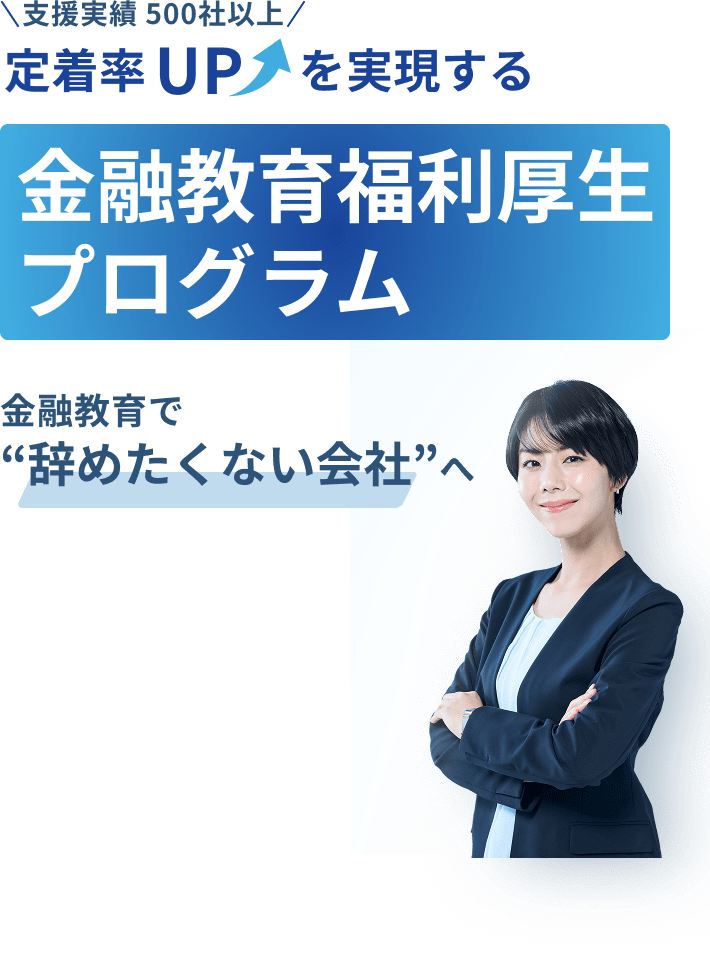
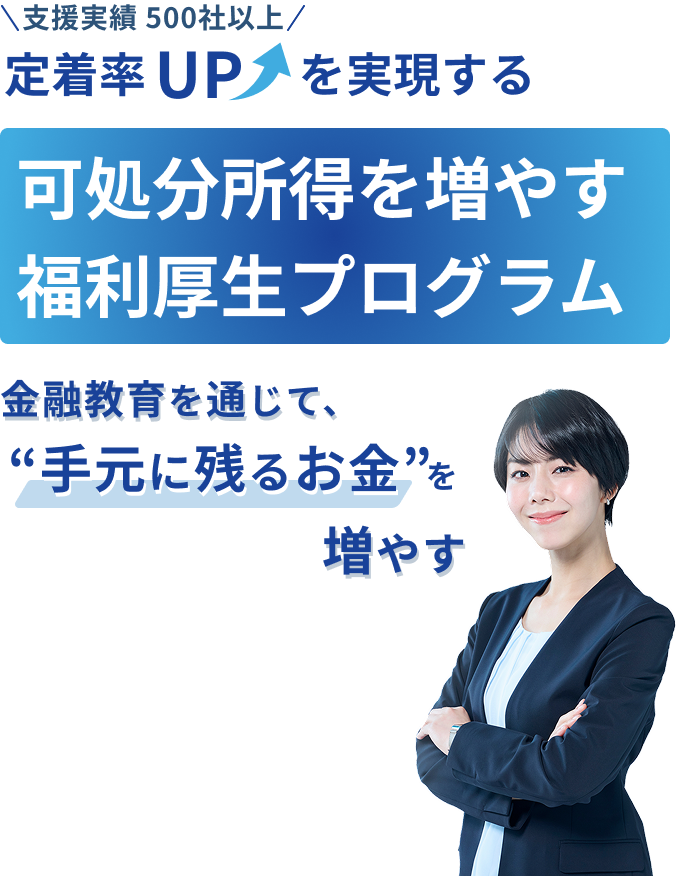
2025/07/25 メインビジュアル > 内容差し替え
・金融教育福利厚生プログラム→社員の"可処分所得"を増やす新しい福利厚生プログラム
・金融教育で"辞めたくない会社へ"→社員の手元に残るお金を増やす

diff --git a/src/app/lp02/page.tsx b/src/app/lp02/page.tsx
@@ -68,6 +68,20 @@ export default function Home() {
           </div>
         </div> */}
         {/* <LogoContents /> */}
+
+        <div className="c-contents -bg-lp02-sc03 pdb7 pdb15s">
+          <div className="c-contents--inner">
+            <p className="s-ML -s14 -b -blue -ls-2 -lh-3 -lh-1_5_s -center">
+              なぜ今、<br className="sp" />福利厚生に“<span className="s-ML -s18 -b -blue -marker">金融教育</span>”が必要なのか？
+              <br /><br className="sp" />
+              物価高や税負担で、<br className="sp" />社員の可処分所得は減少傾向。
+              <br /><br className="sp" />
+              生活不安が転職を招き、<br className="sp" /><span className="s-ML -s18 -b -blue -marker">採用・定着</span>が企業の課題になっています。
+              <br /><br className="sp" />↓<br className="sp" />
+              給与を変えずに手元を増やす福利厚生が<br className="sp" />注目されています。
+            </p>
+          </div>
+        </div>
         {/* SC02 導入効果 */}
         <div
           id="sc02"
@@ -136,11 +150,11 @@ export default function Home() {
                   <br className="sp" />
                   中堅企業でも実績多数&quot;
                 </p> */}
-                <p className="s-ML -s14 -b -blue -ls-2 -lh-2 -lh-1_5_s -ws-n -center mgb1 mgb4s">
+                <p className="s-ML -s14 -b -blue -ls-2 -lh-2 -lh-1_5_s -ws-n -center mgb2 mgb4s">
                   導入企業で、<br className="sp" />こんな成果が出ています。
                 </p>
-                <p className="-center mgb1 mgb4s">
-                  ✔<span className="s-L -s18 -b -blue -ls-2 -lh-2 -lh-1_5_s -ws-n -marker pdl1 pdl1s">離職率を平均○％改善</span>
+                <p className="-center mgb3 mgb4s">
+                  ✔<span className="s-L -s18 -b -blue -ls-2 -lh-2 -lh-1_5_s -ws-n -marker pdl1 pdl1s">離職率を平均15%改善</span>
                   <br />
                   ✔<span className="s-L -s18 -b -blue -ls-2 -lh-2 -lh-1_5_s -ws-n -marker pdl1 pdl1s">社内エンゲージメント向上</span>
                   <br />

diff --git a/src/features/lp02/mainVisual/index.tsx b/src/features/lp02/mainVisual/index.tsx
@@ -30,22 +30,28 @@ export default function LpMainVisual() {
                 <div className={"c-contentsBox -comments01 a-fade -tm05 -sp05"}>
                     <Image
                         src="/images/Lp/ver02/mv-text.png"
-                        // src="/images/SVG/Lp/ver02/mv-text.svg"
-                        alt="支援実績500社以上 定着率アップを実現する 金融教育福利厚生プログラム 金融教育で辞めたくない会社へ"
+                        alt="支援実績500社以上 定着率アップを実現する 社員の可処分所得を増やす新しい福利厚生プログラム 金融教育を通じて、社員の手元に残るお金を増やす"
                         className="tb-pc"
                         width={1644}
                         height={1154}
                     />
                     <Image
                         src="/images/Lp/ver02/mv-text_s.png"
-                        // src="/images/SVG/Lp/ver02/mv-text_s.svg"
-                        alt="支援実績500社以上 定着率アップを実現する 金融教育福利厚生プログラム 金融教育で辞めたくない会社へ"
+                        alt="支援実績500社以上 定着率アップを実現する 社員の可処分所得を増やす新しい福利厚生プログラム 金融教育を通じて、社員の手元に残るお金を増やす"
                         className="sp"
                         width={1000}
                         height={1000}
                     />
                 </div>
-
+                {/* ================= 矢印 ================= */}
+                <div className={"c-contentsBox -arrow a-fadeRightUp -tm15 -sp1"}>
+                    <Image
+                        src="/images/Lp/ver02/mv-bg-arrow.png"
+                        alt="右上がり"
+                        width={1644}
+                        height={1154}
+                    />
+                </div>
                 {/* ================= cv ================= */}
                 <div className="c-contentsBox -cta">
                     <CardContactForm customClass="-card" />

diff --git a/src/styles/components/_mainvisual.scss b/src/styles/components/_mainvisual.scss
@@ -1262,7 +1262,7 @@
                 width: 95%;
                 max-width: 1150px;
                 position: absolute;
-                top: 30%;
+                top: 29%;
                 left: 50%;
                 transform: translate(-50%, -45%);
                 z-index: 5;
@@ -1299,12 +1299,23 @@
                     left: 43.5%;
                 }
             }
+            &.-arrow {
+                position: absolute;
+                top: 37%;
+                left: -90px;
+                width: 100%;
+                z-index: 1;
+                @include min(768) {
+                    top: 15%;
+                    left: 0;
+                }
+            }
 
             &.-cta {
                 width: 90%;
                 max-width: 420px;
                 position: absolute;
-                top: 45%;
+                top: 50%;
                 left: 50%;
                 transform: translateX(-50%);
                 z-index: 7;
@@ -1315,9 +1326,9 @@
                     left: 77%;
                 }
                 @include min(1000) {
-                    width: 33%;
+                    width: 30%;
                     top: 16.5%;
-                    left: 78%;
+                    left: 80%;
                 }
                 @include min(1400) {
                     left: 78%;

diff --git a/src/styles/animation/_fade.scss b/src/styles/animation/_fade.scss
@@ -79,6 +79,21 @@
             transform: translateX(0);
         }
     }
+    &-fadeRightUp{
+        opacity: 0;
+        animation-name:fadeRightUpAnime;
+        animation-fill-mode: forwards;
+    }
+    @keyframes fadeRightUpAnime{
+        from {
+            opacity: 0;
+            transform: translate(-100px, 100px);
+        }
+        to { 
+            opacity: 1;
+            transform: translate(0, 0);
+        }
+    }
     /* ---------------------------------------
         fadeLeftアニメーション
     --------------------------------------- */

diff --git a/src/styles/components/_form.scss b/src/styles/components/_form.scss
@@ -373,12 +373,12 @@
         textarea,
         select {
           width: 100%;
-          padding: 10px;
+          padding: 6px;
           @include min(500) {
-            padding: 9px 5px;
+            padding: 7px 5px;
           }
           @include min(1280) {
-            padding: 10px 15px;
+            padding: 8px 10px;
           }
           &:focus + span,
           &:not(:placeholder-shown) + span {

diff --git a/src/styles/animation/_common.scss b/src/styles/animation/_common.scss
@@ -13,6 +13,7 @@
         fadeアニメーション
     --------------------------------------- */
     &-fade,&-fadeUp,&-fadeDown,&-fadeLeft,&-fadeRight,
+    &-fadeRightUp,
     /* ---------------------------------------
         fadeアニメーション
     --------------------------------------- */
